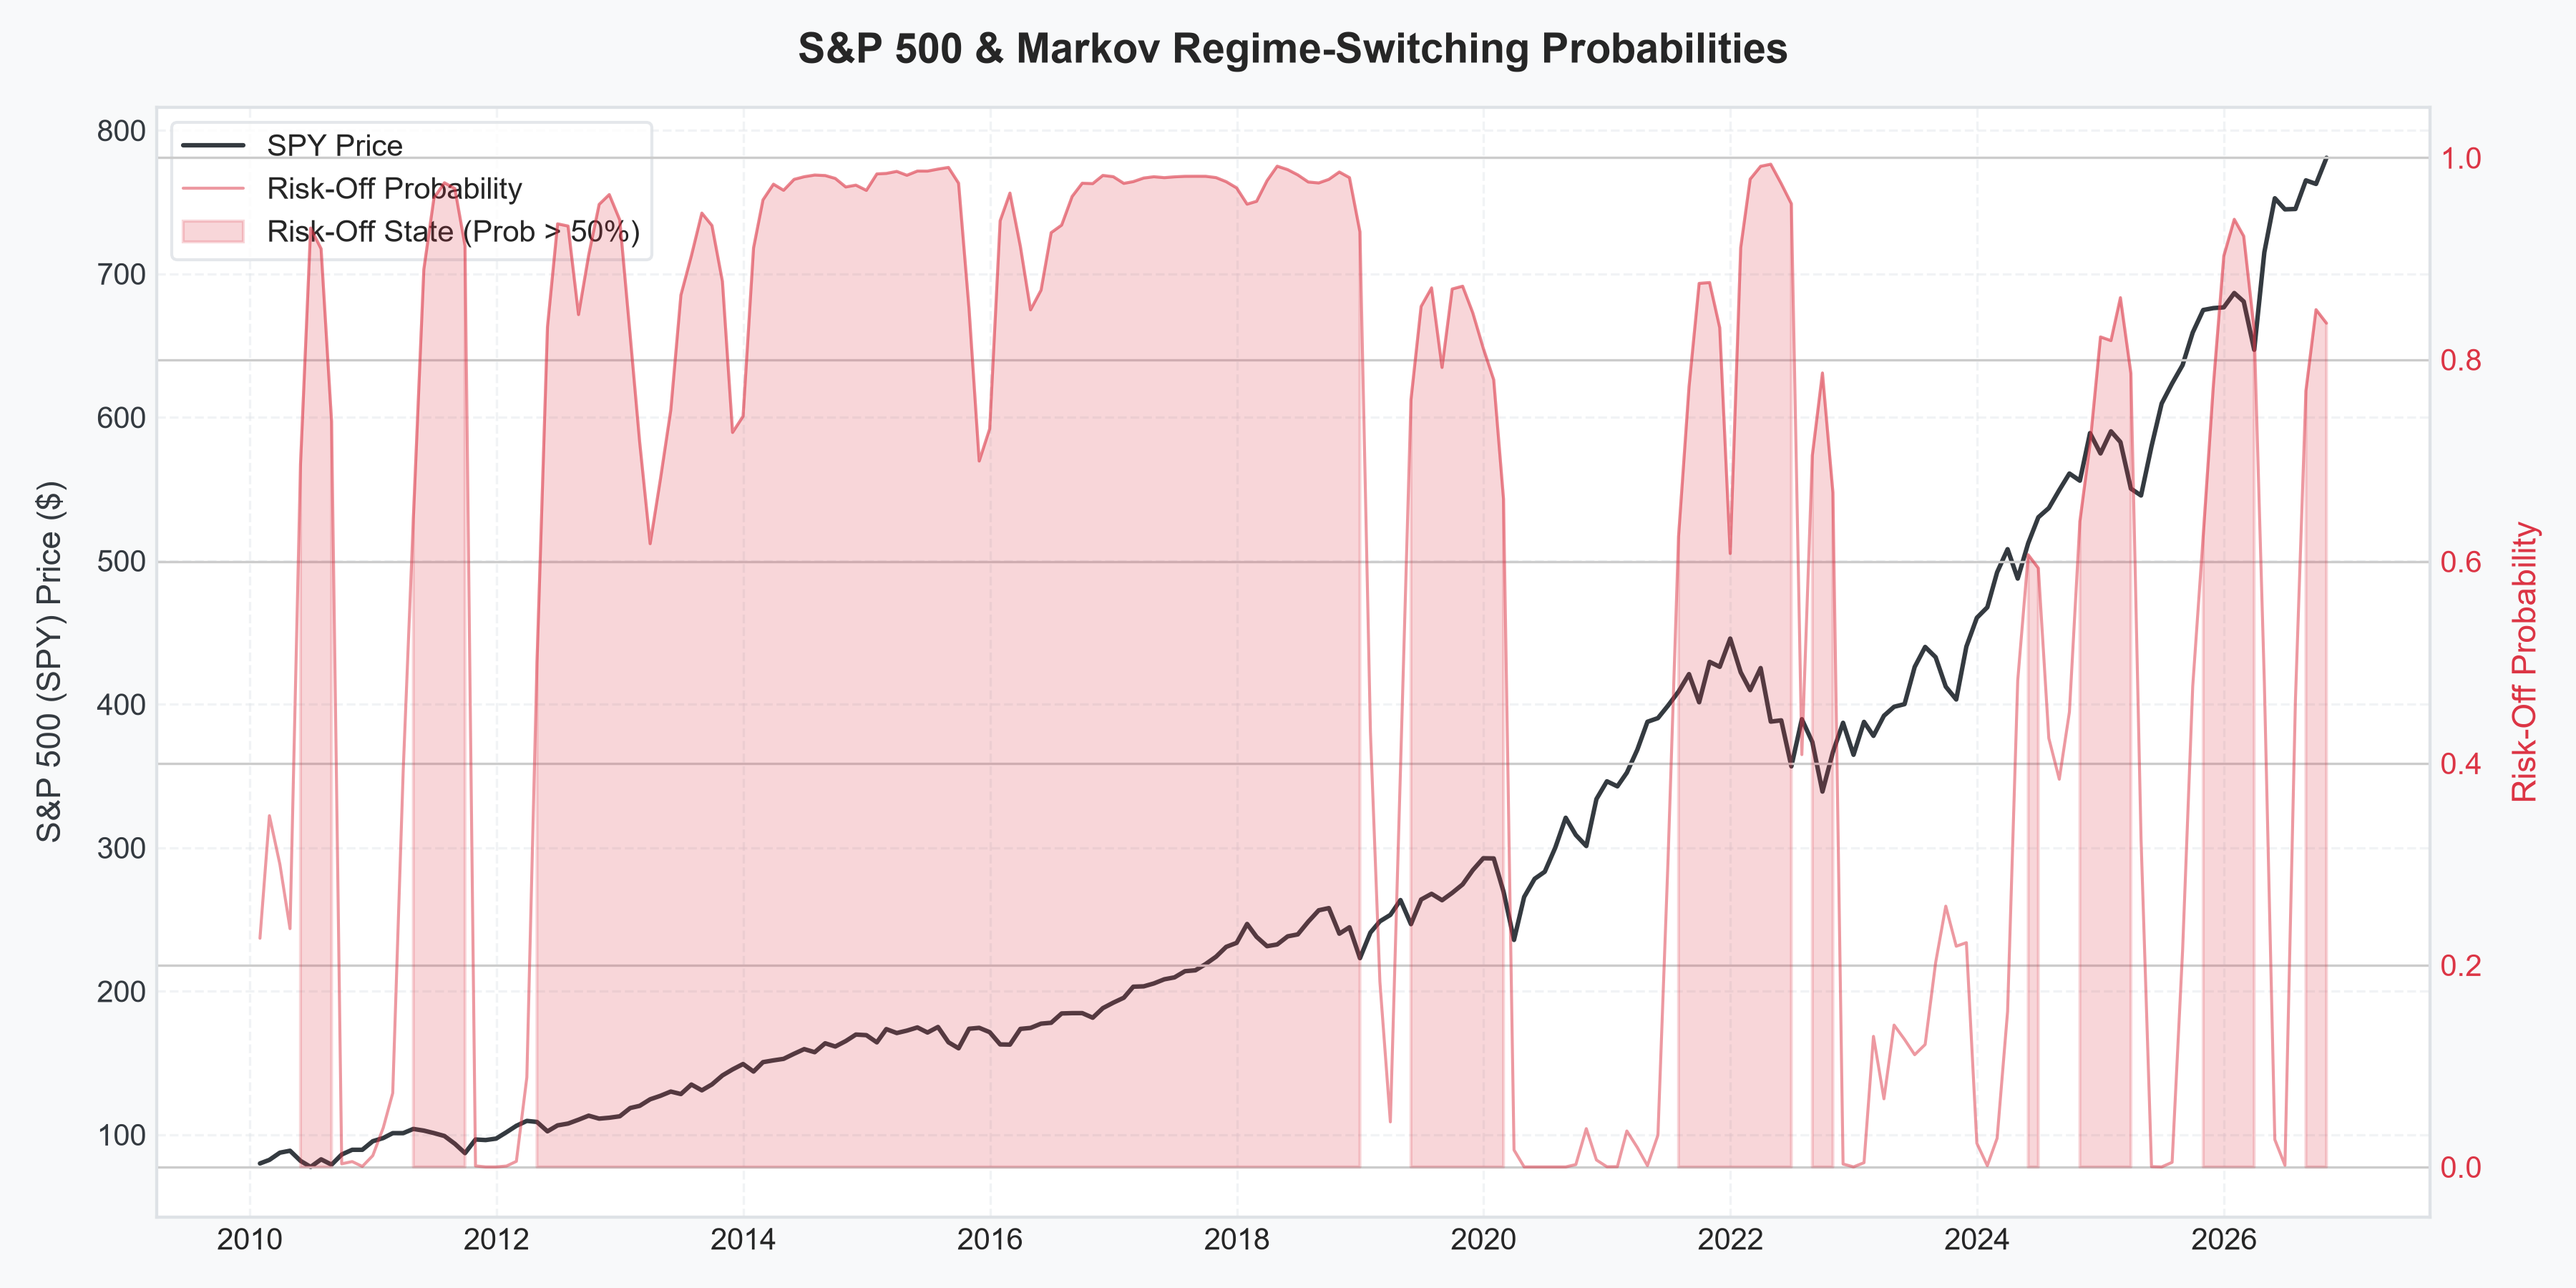
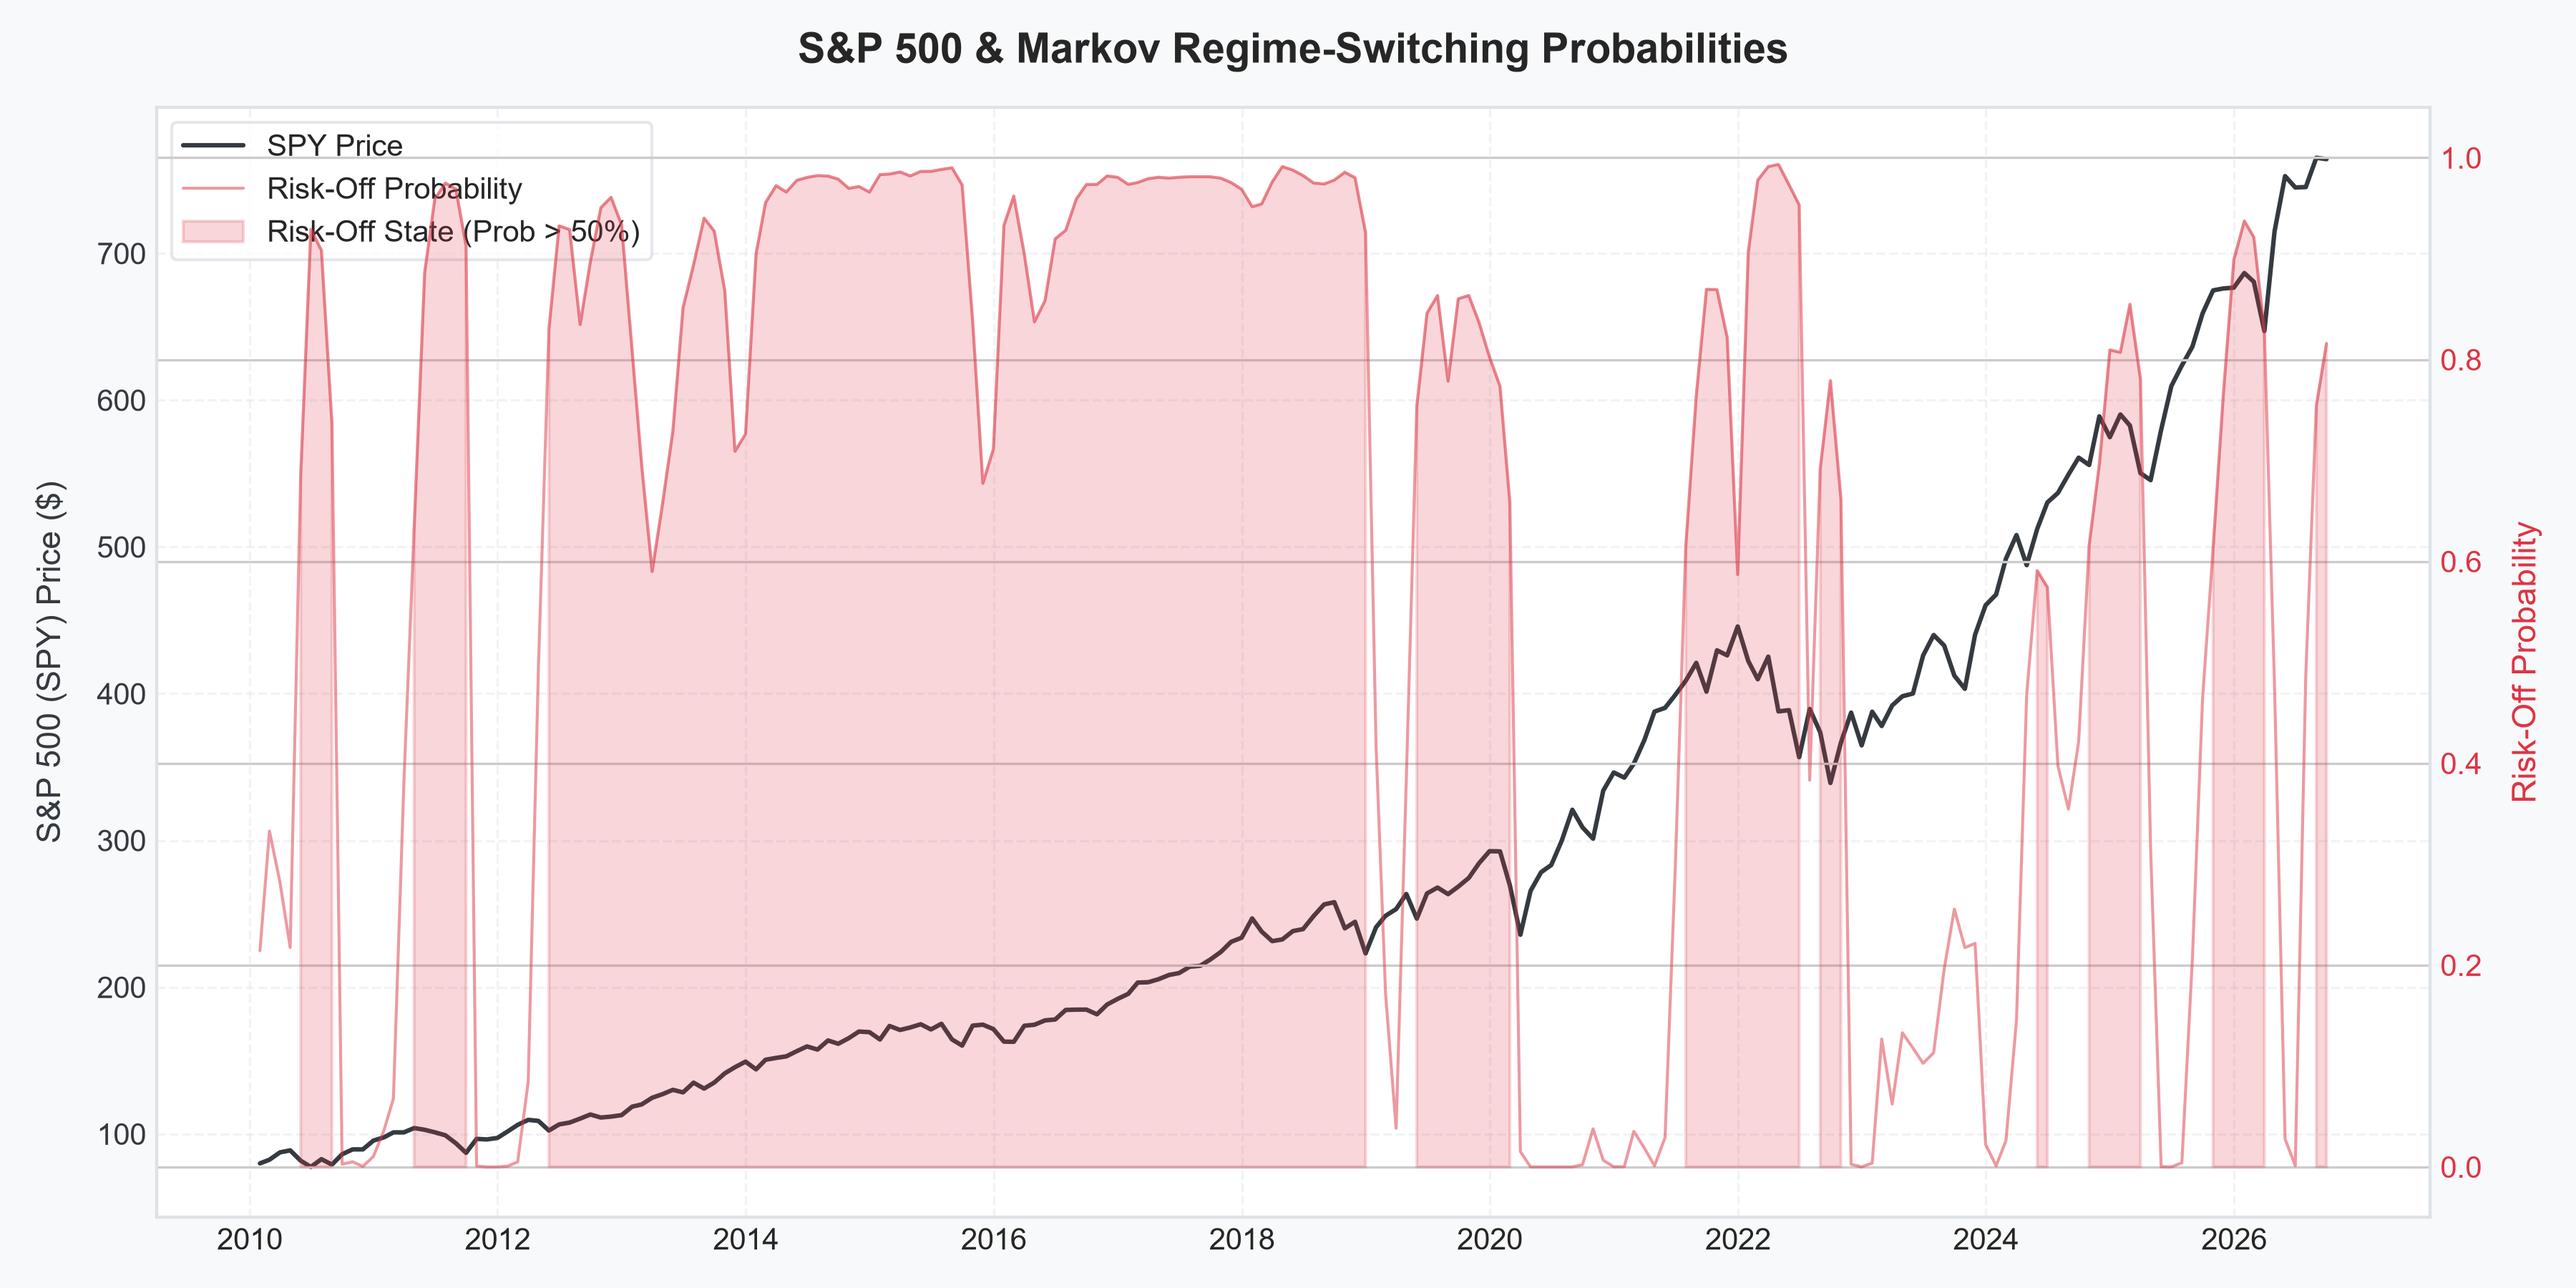
Enforce clean September 30, 2026 cutoff across all models, metrics, and plots

diff --git a/main_continuous.py b/main_continuous.py
@@ -11,8 +11,8 @@ def main():
     print("STARTING CONTINUOUS ALLOCATION REGIME SWITCHING SYSTEM (V2)")
     print("=" * 60)
     
-    # 1. Load Data (from 2000)
-    df = prepare_dataset(start_date="2000-01-01")
+    # 1. Load Data (Terminating cleanly at the end of September 2026)
+    df = prepare_dataset(start_date="2000-01-01", end_date="2026-09-30")
     
     # Define features for Machine Learning model
     features_ml = [

diff --git a/main.py b/main.py
@@ -11,8 +11,8 @@ def main():
     print("STARTING MACRO-DRIVEN REGIME SWITCHING SYSTEM")
     print("=" * 60)
     
-    # 1. Load Data
-    df = prepare_dataset(start_date="2000-01-01")
+    # 1. Load Data (Terminating cleanly at the end of September 2026)
+    df = prepare_dataset(start_date="2000-01-01", end_date="2026-09-30")
     
     # Define features for Machine Learning model
     features_ml = [

diff --git a/src/data_loader.py b/src/data_loader.py
@@ -5,7 +5,7 @@ import pandas_datareader.data as web
 import time
 import os
 
-def fetch_yfinance_data(tickers=["SPY", "AGG", "^VIX", "VBMFX"], start="2008-01-01", end=None):
+def fetch_yfinance_data(tickers=["SPY", "AGG", "VBMFX"], start="2008-01-01", end=None):
     """
     Fetches daily price data from Yahoo Finance.
     """
